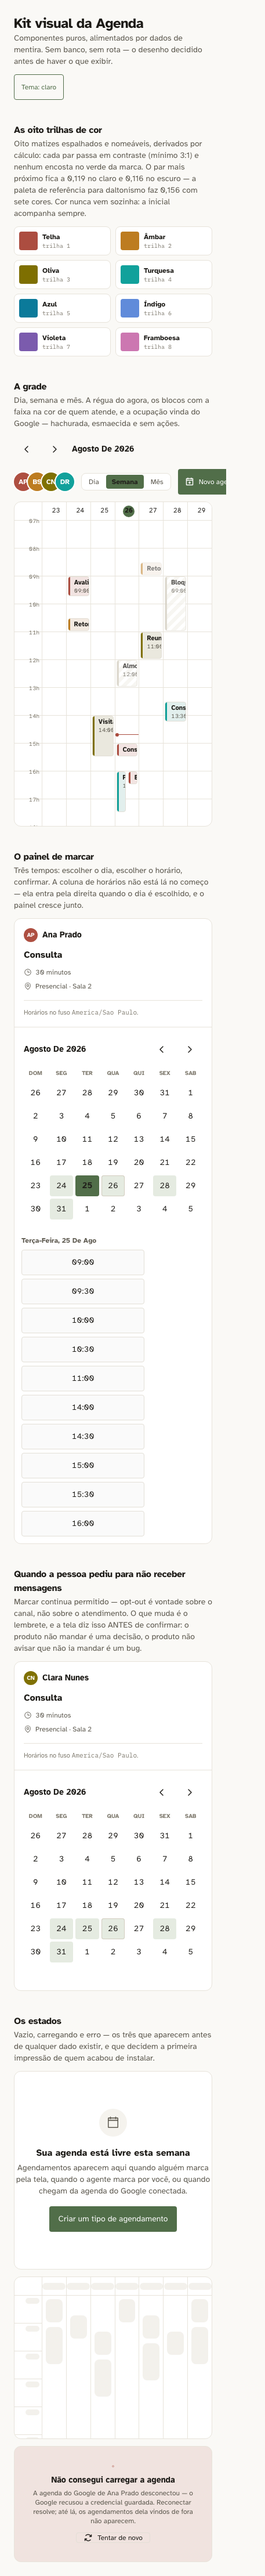
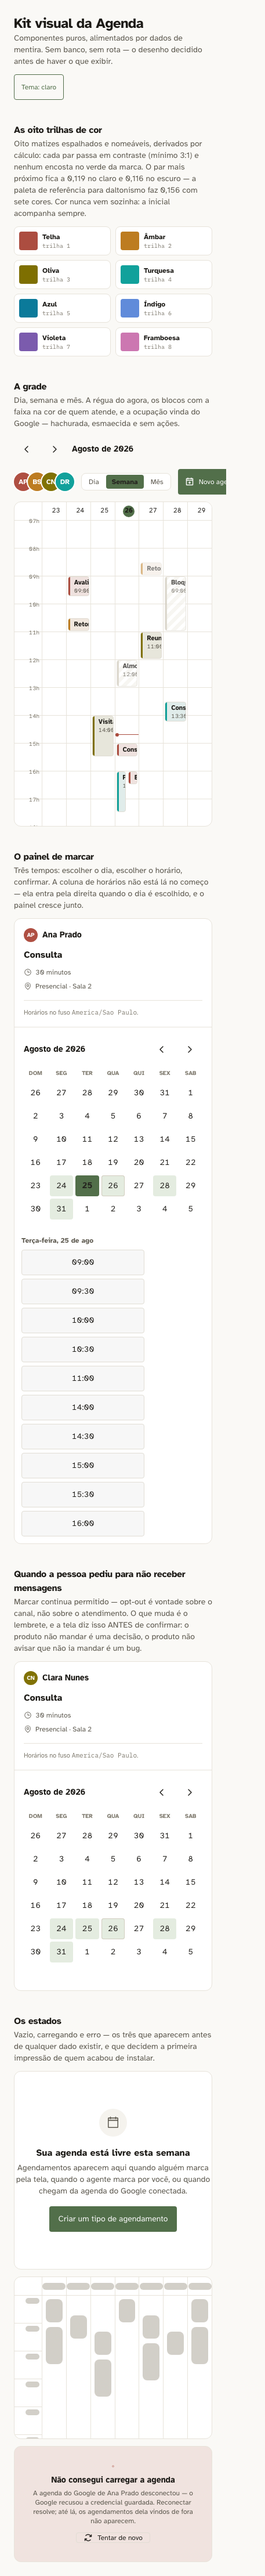
fix(agenda): o botão morto, a preposição maiúscula, e o esqueleto que ninguém via
14/14 em tela. Três defeitos que os testes anteriores não pegaram — dois achados
por CLIQUE do maestro, um por medição dele sobre o meu próprio conserto — e as
redes para nenhum deles voltar.

## O botão primário estava inerte

"Novo agendamento": cor de ação, sem `disabled`, e o clique não fazia nada. O
maestro contou 252 nós no DOM antes e 252 depois. É o anti-pattern de controle
decorativo, e é pior que não existir: quem clica conclui que o produto está
quebrado e não tem o que reportar além de "não abre".

O conserto não é ligar um `onClick` vazio — não há rota até a frente 1. É
`disabled` com o motivo À VISTA, em texto ao lado e não só no `title`: atributo
de hover não existe para quem usa toque, e o dono de clínica está no celular.

Incômodo registrado: a MESMA tela já fazia isso certo dois blocos abaixo — o
estado vazio ensina as três origens do dado em vez de constatar a ausência.
Acertei e errei o mesmo princípio na mesma tela, no mesmo dia.

## "23 De Ago" estava em QUATRO lugares, não um

O maestro reportou uma instância. Fui procurar a classe: `capitalize` do CSS
maiúscula TODA palavra, e estava na tela real, na vitrine e em dois pontos do
painel — "Terça-Feira, 25 De Ago". Dois deles no MEU screenshot de evidência,
que eu tinha olhado inteiro uma hora antes.

Nem a foto pega tudo se ninguém estiver procurando aquilo.

`first-letter:uppercase` nos quatro: o date-fns já devolve o resto certo.

## O esqueleto: o meu primeiro conserto era pela metade
[…]

diff --git a/tests/e2e/agenda-kit-visual.spec.ts b/tests/e2e/agenda-kit-visual.spec.ts
@@ -411,6 +411,95 @@ test.describe("kit visual da Agenda", () => {
     console.info("\n[medidas das trilhas]\n" + relatorio.join("\n\n") + "\n");
   });
 
+  test("controle que promete ação ou FAZ, ou está desabilitado com o motivo", async () => {
+    // O maestro achou isto clicando: o "Novo agendamento" da tela real tinha cor
+    // de ação primária, não estava `disabled`, e o clique não mudava NADA — 252
+    // nós no DOM antes e 252 depois.
+    //
+    // Pior que não existir: quem clica conclui que o produto está quebrado e não
+    // tem o que reportar além de "não abre". Este teste existe para o botão não
+    // voltar a esse estado quando alguém "ligar" a tela na frente 1 pela metade.
+    //
+    // A regra que ele guarda é a do produto, não a do meu botão: todo controle
+    // com cor de ação ou faz alguma coisa, ou se declara indisponível.
+    await page.goto("/app/agenda");
+    const novo = page.getByRole("button", { name: /novo agendamento/i });
+    await expect(novo).toBeVisible({ timeout: ESPERA });
+
+    const habilitado = await novo.isEnabled();
+    if (habilitado) {
+      // Se está habilitado, TEM de fazer algo: o DOM muda ao clicar.
+      const antes = await page.evaluate(() => document.querySelectorAll("*").length);
+      await novo.click();
+      await expect
+        .poll(async () => page.evaluate(() => document.querySelectorAll("*").length), {
+          timeout: 5_000,
+        })
+        .not.toBe(antes);
+    } else {
+      // Se está desabilitado, o motivo tem de estar À VISTA — não só no `title`,
+      // que não existe para quem usa toque.
+      await expect(page.getByTestId("motivo-novo-agendamento")).toHaveText(/.{10,}/);
+    }
+  });
+
+  test("o NÚMERO que a tela afirma é o número que a tela mede", async () => {
+    // Este teste nasce de um defeito meu, e do que o maestro nomeou depois:
+    // hoje houve TRÊS casos de descrição que sobreviveu à coisa descrita — um
+    // comentário dele, um do DevVivo, e o meu, que era o único VISÍVEL ao
+    // usuário. O texto da vitrine seguiu dizendo "matizes de Okabe-Ito" por uma
+    // hora depois de a medição desmentir isso.
+    //
+    // A conclusão dele foi "prosa sem gate diverge". Este é o gate possível para
+    // um pedaço dela: quando a tela AFIRMA UM NÚMERO, o número vira asserção.
+    // Não fecha prosa em geral — fecha a prosa que se compromete com medida, que
+    // é justamente a que envelhece com mais confiança.
+    await page.goto(VITRINE);
+    const texto = await page.getByTestId("secao-paleta").innerText();
+
+    const afirmados = [...texto.matchAll(/0,(\d{3})/g)].map((m) => Number(`0.${m[1]}`));
+    expect(afirmados.length, `a seção deveria afirmar números; texto: ${texto}`).toBeGreaterThanOrEqual(2);
+
+    const medido = { claro: 0, escuro: 0 };
+    for (const tema of ["claro", "escuro"] as const) {
+      if (tema === "escuro") {
+        await page.getByTestId("alternar-tema").click();
+        await expect
+          .poll(async () => page.evaluate(() => document.documentElement.getAttribute("data-theme")), {
+            timeout: ESPERA,
+          })
+          .toBe("dark");
+      }
+      medido[tema] = (await medirTrilhas(page)).menorDistancia;
+    }
+
+    // Os dois primeiros números do texto são o par mais próximo em cada tema.
+    // Tolerância de 0.002: o texto arredonda para três casas.
+    expect(
+      Math.abs(afirmados[0]! - medido.claro),
+      `a tela afirma ${afirmados[0]} no claro, e mede ${medido.claro.toFixed(4)}`,
+    ).toBeLessThan(0.002);
+    expect(
+      Math.abs(afirmados[1]! - medido.escuro),
+      `a tela afirma ${afirmados[1]} no escuro, e mede ${medido.escuro.toFixed(4)}`,
+    ).toBeLessThan(0.002);
+  });
+
+  test("a data em pt-br não maiúscula a preposição", async () => {
+    // "23 De Ago" era `capitalize` do CSS, que maiúscula toda palavra. O mesmo
+    // defeito estava em QUATRO lugares — a tela, a vitrine e dois no painel —
+    // e o maestro viu um. Esta asserção varre o texto renderizado inteiro.
+    await page.goto(VITRINE);
+    await expect(page.getByTestId("grade-da-agenda")).toBeVisible({ timeout: ESPERA });
+    const errados = await page.evaluate(() => {
+      const texto = document.body.innerText;
+      // preposições e composto de dia da semana que nunca levam maiúscula no meio
+      const re = /\b(De|Da|Do|Das|Dos|E)\b(?!\s*[A-ZÁÉÍÓÚÂÊÔÃÕÇ]{2,})|-Feira/g;
+      return [...new Set(texto.match(re) ?? [])];
+    });
+    expect(errados, `texto com maiúscula indevida: ${errados.join(", ")}`).toEqual([]);
+  });
+
   test("evidência visual: claro, escuro e celular", async () => {
     await page.setViewportSize({ width: 1440, height: 1000 });
     await expect(page.getByTestId("grade-da-agenda")).toBeVisible({ timeout: ESPERA });

diff --git a/components/agenda/estados.tsx b/components/agenda/estados.tsx
@@ -15,14 +15,33 @@ import { JANELA_DA_GRADE } from "./GradeDaAgenda";
  * página trocou. As mesmas 7 colunas e a mesma janela de horas da grade real.
  */
 export function AgendaCarregando() {
-  // `bg-border` em cada Skeleton, e não o default: o `components/ui/skeleton.tsx`
-  // usa `bg-primary/10`, que é a accent do produto a 10% de opacidade. Sobre o
-  // branco do tema claro isso dá contraste ~1.06 — o esqueleto fica INVISÍVEL, e
-  // a espera vira uma grade vazia em vez de uma promessa de conteúdo. Visto no
-  // screenshot de evidência, não no código.
+  // `bg-neutral-400` em cada Skeleton, e não o default do primitivo.
   //
-  // Não mexo no primitivo: ele é usado por todo o produto e a correção lá é
-  // decisão de quem cuida do design system, não drive-by no PR do calendário.
+  // `components/ui/skeleton.tsx` usa `bg-primary/10` — a accent a 10% —, que dá
+  // contraste 1.146:1 sobre o branco: o esqueleto some, e a espera vira uma
+  // grade vazia em vez de promessa de conteúdo. Visto no screenshot, não no
+  // código.
+  //
+  // O primeiro conserto foi `bg-border`, e o maestro mediu que era insuficiente:
+  // 1.281:1, doze por cento melhor e ainda invisível. Ele também levantou o que
+  // ninguém tinha medido — o esqueleto PULSA (`animate-pulse` oscila a opacidade
+  // entre 1 e .5 a cada 2s), então ele vive entre DOIS contrastes e o olho lê o
+  // movimento entre eles. Medido, sobre superfície branca:
+  //
+  //     candidato          cheio    apagado   delta L*
+  //     bg-primary/10      1.146     1.067      2.81
+  //     bg-border          1.281     1.129      4.85
+  //     border-strong      1.588     1.249      8.82
+  //     neutral-400        2.512     1.525     16.77   <- escolhido
+  //
+  // `neutral-400` foi escolhido por ser quase SIMÉTRICO entre os temas (2.512 no
+  // claro, 2.622 no escuro): um esqueleto que aparece num tema e some no outro é
+  // o mesmo defeito resolvido pela metade. Fica abaixo do piso WCAG de 3:1 para
+  // gráfico não-textual — aceitável porque o esqueleto não carrega informação
+  // que se lê, e o pulso de 16.77 em L* o torna inequívoco.
+  //
+  // Não mexo no primitivo: 113 usos em 51 arquivos da main. A correção lá é item
+  // de produto, escalado pelo QAVivo, não drive-by no PR do calendário.
   const linhas = JANELA_DA_GRADE.ultima - JANELA_DA_GRADE.primeira + 1;
   return (
     <div
@@ -35,7 +54,7 @@ export function AgendaCarregando() {
         <div className="h-8 border-b border-border" />
         {Array.from({ length: linhas }).map((_, i) => (
           <div key={i} className="flex h-12 items-start justify-end border-b border-border/50 p-1">
-            <Skeleton className="h-2.5 w-6 bg-border" />
+            <Skeleton className="h-2.5 w-6 bg-neutral-400" />
           </div>
         ))}
       </div>
@@ -43,13 +62,13 @@ export function AgendaCarregando() {
         {Array.from({ length: 7 }).map((_, col) => (
           <div key={col} className="min-w-0 flex-1 border-r border-border last:border-r-0">
             <div className="flex h-8 items-center justify-center border-b border-border">
-              <Skeleton className="h-3 w-10 bg-border" />
+              <Skeleton className="h-3 w-10 bg-neutral-400" />
             </div>
             <div className="space-y-2 p-1.5">
               {/* Alturas diferentes por coluna: um esqueleto perfeitamente
                   regular parece uma tabela, não uma agenda. */}
-              <Skeleton className="h-10 w-full bg-border" style={{ marginTop: (col % 3) * 28 }} />
-              {col % 2 === 0 && <Skeleton className="h-16 w-full bg-border" />}
+              <Skeleton className="h-10 w-full bg-neutral-400" style={{ marginTop: (col % 3) * 28 }} />
+              {col % 2 === 0 && <Skeleton className="h-16 w-full bg-neutral-400" />}
             </div>
           </div>
         ))}

diff --git a/app/app/agenda/_client.tsx b/app/app/agenda/_client.tsx
@@ -85,7 +85,25 @@ export function AgendaClient({ fusoDeApresentacao }: { fusoDeApresentacao: strin
           <Button variant="outline" size="sm" onClick={() => setAncora(new Date())}>
             Hoje
           </Button>
-          <Button size="sm">
+          {/*
+            DESABILITADO COM O MOTIVO À VISTA, e não ligado a um `onClick` vazio.
+            Enquanto a frente 1 não expõe `/api/v1/agenda` não há o que marcar, e
+            um botão primário, com cor de ação e sem `disabled`, que não faz nada
+            ao clique é pior do que não existir: quem clica conclui que o produto
+            está quebrado e não tem o que reportar além de "não abre". É o
+            anti-pattern de controle decorativo, e esta base já pagou por ele.
+
+            O motivo vai em texto ao lado, não só no `title`: atributo de
+            hover não existe para quem usa toque, que é o dono de clínica no
+            celular.
+          */}
+          <span
+            data-testid="motivo-novo-agendamento"
+            className="hidden text-xs text-text-subtle sm:inline"
+          >
+            Disponível quando a agenda estiver conectada
+          </span>
+          <Button size="sm" disabled title="Disponível quando a agenda estiver conectada">
             <CalendarPlus size={16} weight="bold" aria-hidden />
             <span>Novo agendamento</span>
           </Button>
@@ -114,7 +132,17 @@ export function AgendaClient({ fusoDeApresentacao }: { fusoDeApresentacao: strin
               <CaretRight size={16} weight="bold" aria-hidden />
             </Button>
           </div>
-          <span data-testid="periodo" className="truncate text-sm font-semibold capitalize">
+          {/*
+            `first-letter:uppercase` e NÃO `capitalize`: o `capitalize` do CSS
+            maiúscula toda palavra, e o date-fns em pt-br devolve "23 de ago" —
+            virava "23 De Ago". Preposição com maiúscula é o detalhe que faz o
+            produto parecer traduzido em vez de escrito, e fica na primeira
+            linha abaixo do título.
+          */}
+          <span
+            data-testid="periodo"
+            className="truncate text-sm font-semibold first-letter:uppercase"
+          >
             {periodo}
           </span>
         </div>

diff --git a/components/agenda/PainelDeMarcacao.tsx b/components/agenda/PainelDeMarcacao.tsx
@@ -172,7 +172,7 @@ export function PainelDeMarcacao({
         className="flex min-w-0 flex-1 flex-col p-4 md:min-w-[420px]"
       >
         <div className="mb-3 flex items-center justify-between">
-          <span className="text-sm font-semibold capitalize">
+          <span className="text-sm font-semibold first-letter:uppercase">
             {format(mes, "MMMM 'de' yyyy", { locale: ptBR })}
           </span>
           <div className="flex items-center gap-1">
@@ -290,7 +290,7 @@ export function PainelDeMarcacao({
         className="agenda-coluna-horarios shrink-0"
       >
         <div className="flex h-full w-[240px] flex-col p-3 lg:w-[280px]">
-          <p className="mb-2 shrink-0 text-xs font-semibold capitalize text-text-muted">
+          <p className="mb-2 shrink-0 text-xs font-semibold text-text-muted first-letter:uppercase">
             {dia ? format(dia, "EEEE, d 'de' MMM", { locale: ptBR }) : ""}
           </p>
           <div className="flex min-h-0 flex-1 flex-col gap-1.5 overflow-y-auto pr-1">

diff --git a/app/vitrine-agenda/_client.tsx b/app/vitrine-agenda/_client.tsx
@@ -121,7 +121,7 @@ export function VitrineDaAgenda() {
                 <CaretRight size={16} weight="bold" aria-hidden />
               </Button>
             </div>
-            <span data-testid="periodo" className="text-sm font-semibold capitalize">
+            <span data-testid="periodo" className="text-sm font-semibold first-letter:uppercase">
               {format(ANCORA, "MMMM 'de' yyyy", { locale: ptBR })}
             </span>
           </div>
